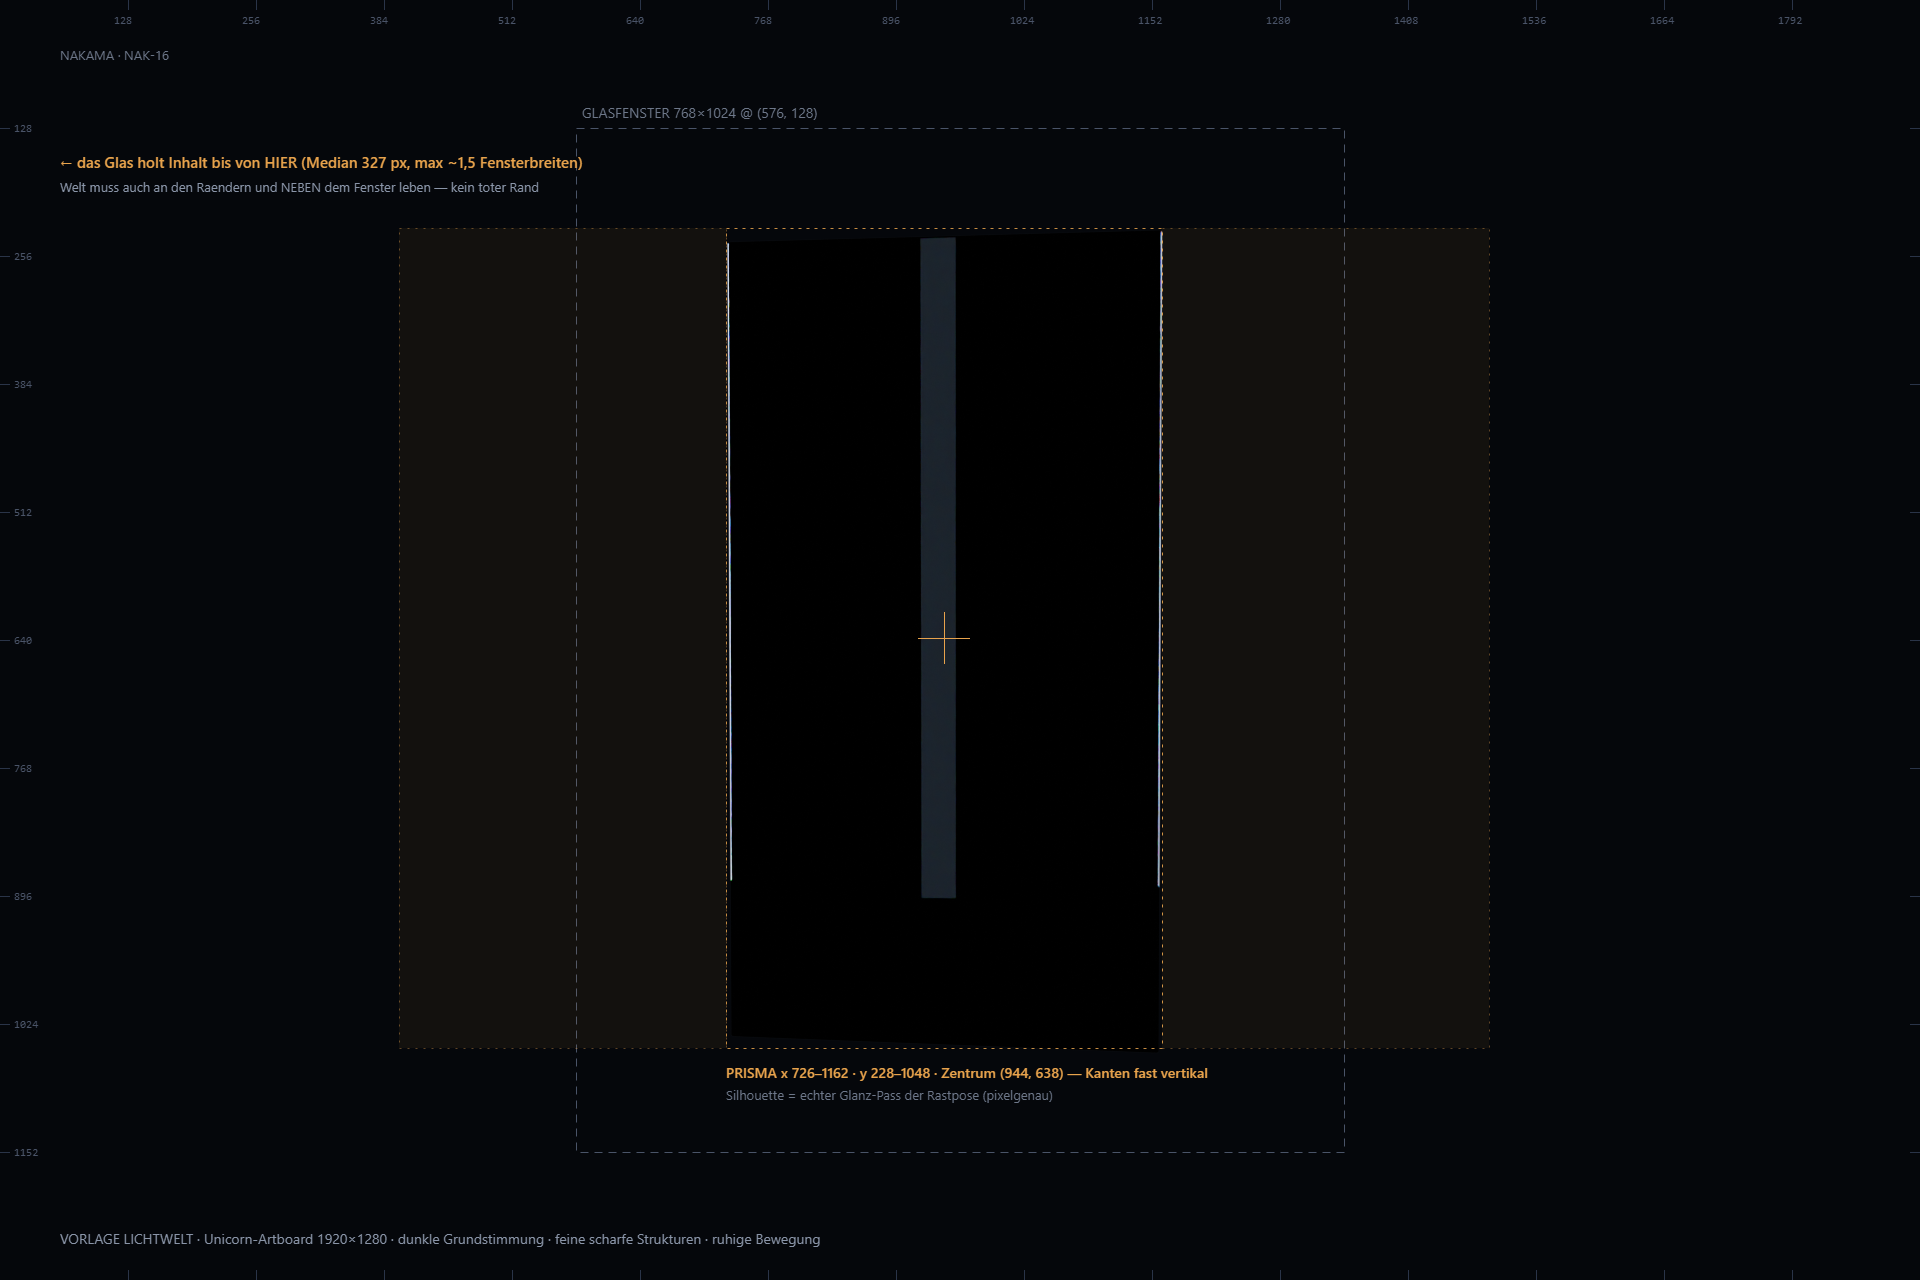
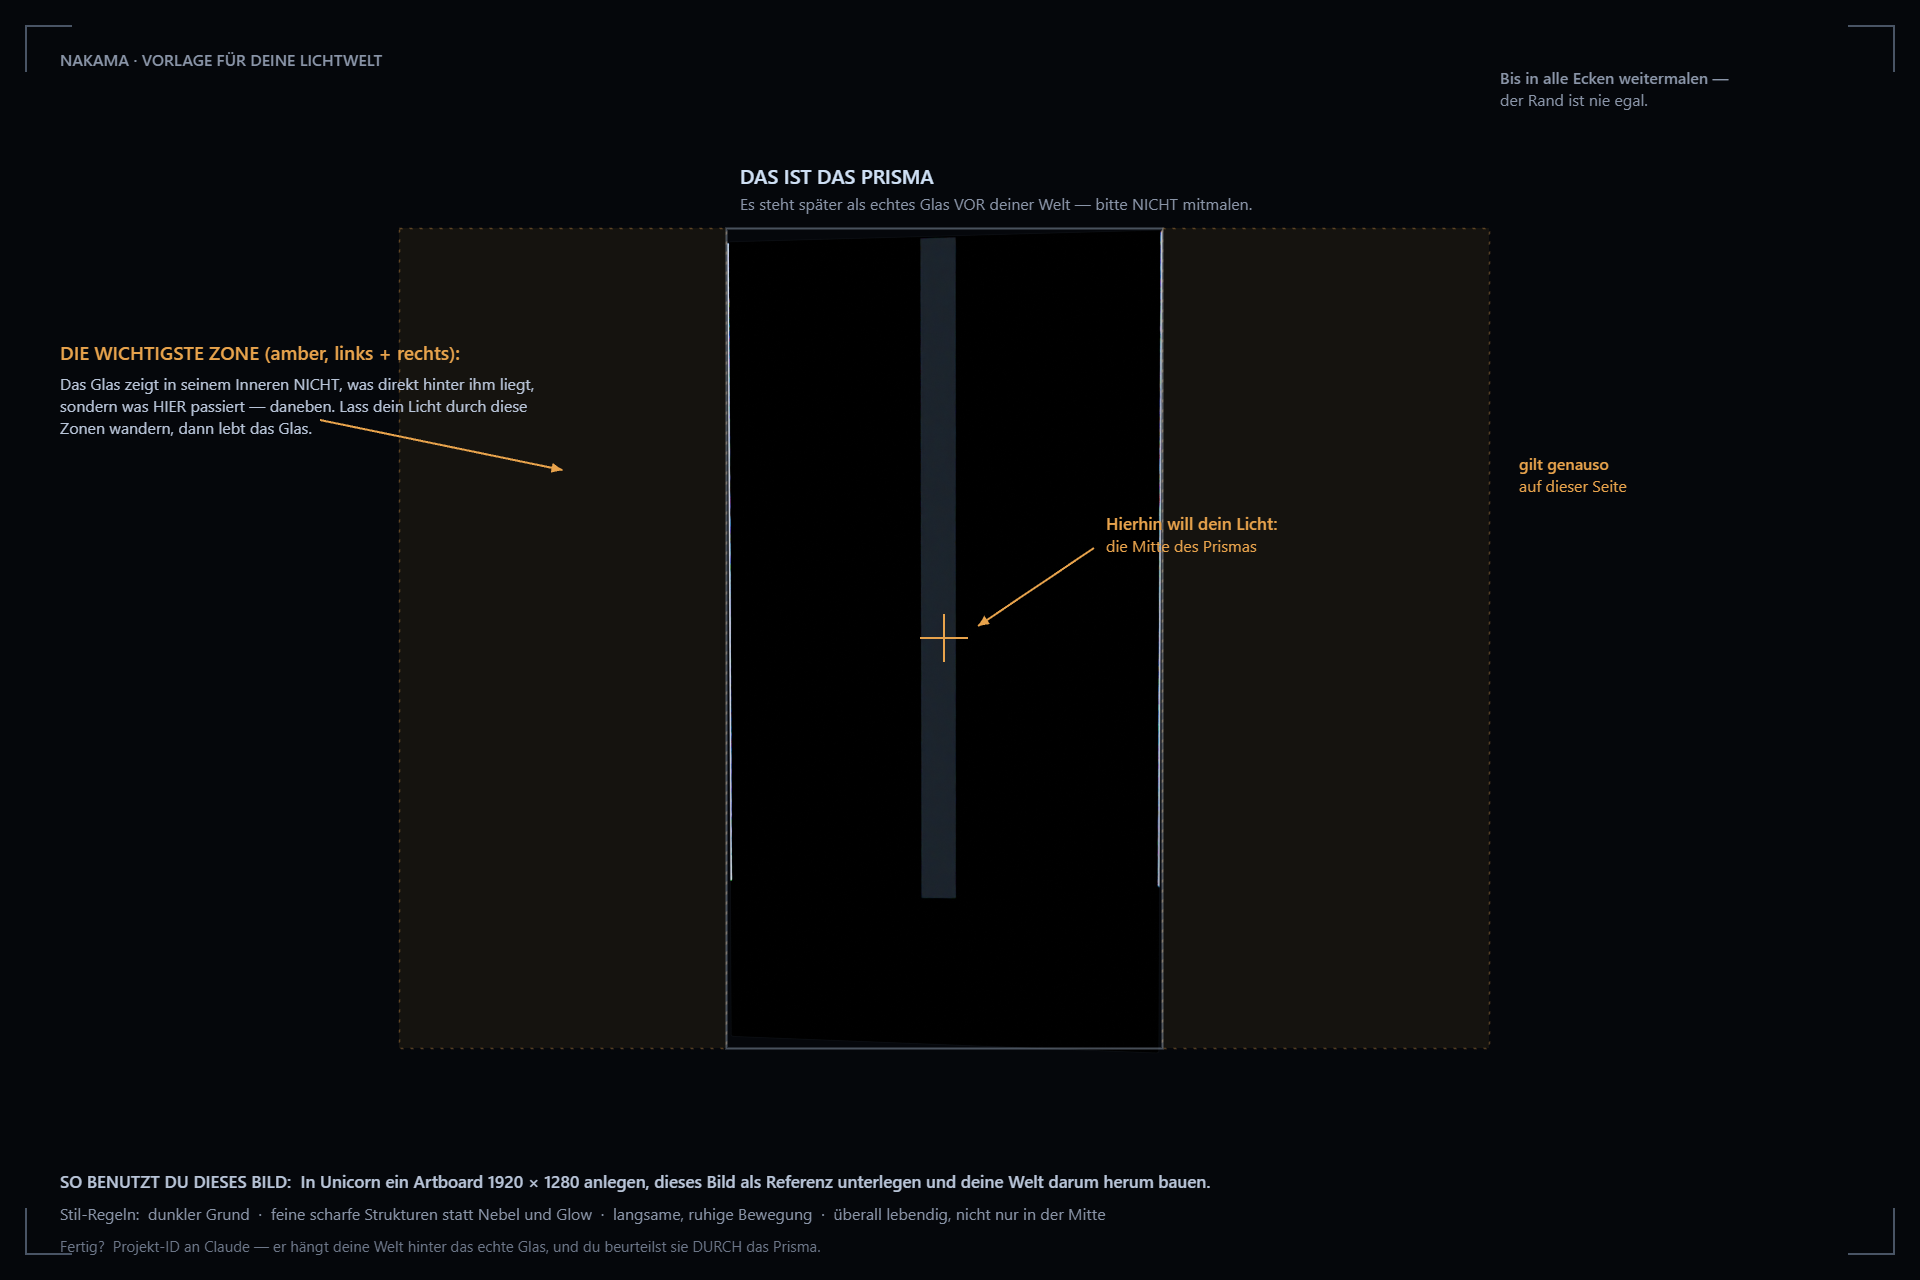
Vorlage Lichtwelt fuer Nicht-Techniker umgebaut: Klartext statt Koordinaten
Pixel-Lineal, Glasfenster-Rahmen und Zahlen-Labels raus; stattdessen
fuenf Botschaften: Prisma nicht mitmalen · Ziel des Lichts = Mitte ·
amber Greif-Zonen erklaert (Glas zeigt was DANEBEN passiert) · Ecken
leben · Fusszeile mit Anleitung + Stilregeln. Technik-Zahlen bleiben
in probe-stmap-meta.json und spielregeln-skizze.html.

Claude-Session: https://claude.ai/code/session_01SKimRmrHFJAxWBLXy71Zs1

diff --git a/eq-copilot/design/prisma/vorlage-lichtwelt.html b/eq-copilot/design/prisma/vorlage-lichtwelt.html
@@ -4,12 +4,13 @@
 <meta charset="utf-8">
 <title>NAKAMA · Vorlage Lichtwelt</title>
 <!--
-  VORLAGE fuer die Lichtwelt-Gestaltung in Unicorn (NAK-16-Folge):
-  die echte Prisma-Silhouette (Glanz-Pass der Rastpose, pixelgenau an
-  ihrer Blatt-Position) mit Mass-Guides — Glasfenster, Zentrum,
-  Greifzone des Glases. Screenshot dieses Blatts = Referenzbild fuers
-  Unicorn-Artboard (1920x1280).
-  Zahlen: renders/stmap/probe-stmap-meta.json + messung.json.
+  VORLAGE fuer die Lichtwelt-Gestaltung in Unicorn (NAK-16-Folge) —
+  bewusst fuer NICHT-Techniker beschriftet: Klartext-Zonen statt
+  Koordinaten. Die Prisma-Silhouette ist der echte Glanz-Pass der
+  Rastpose, pixelgenau an ihrer Blatt-Position (1920x1280-Buehne,
+  Glasfenster 768x1024 zentriert — die Technik-Zahlen stehen in
+  renders/stmap/probe-stmap-meta.json und docs/spielregeln-skizze.html).
+  Screenshot dieses Blatts = Referenzbild fuers Unicorn-Artboard.
 -->
 <style>
   * { margin: 0; padding: 0; }
@@ -24,93 +25,119 @@
 "use strict";
 const c = document.getElementById("blatt").getContext("2d");
 const BW = 1920, BH = 1280;
-const GX = 576, GY = 128, GW = 768, GH = 1024;      // Glasfenster zentriert
-// Prisma-Silhouette in Glas-Koordinaten (gemessen am Glanz-Pass):
-const PX0 = GX + 150, PX1 = GX + 586;               // 726 .. 1162
-const PY0 = GY + 100, PY1 = GY + 920;               // 228 .. 1048
-const PCX = (PX0 + PX1) / 2, PCY = (PY0 + PY1) / 2; // ~944, ~638
+const GX = 576, GY = 128, GW = 768, GH = 1024;      // Glasfenster (intern)
+// Prisma-Silhouette in Blatt-Koordinaten (gemessen am Glanz-Pass):
+const PX0 = GX + 150, PX1 = GX + 586;
+const PY0 = GY + 100, PY1 = GY + 920;
+const PCX = (PX0 + PX1) / 2, PCY = (PY0 + PY1) / 2;
+const GRIFF = 327;                                   // Median-Greifweite
 
 c.fillStyle = "#05070b";
 c.fillRect(0, 0, BW, BH);
 
 const glanz = new Image();
 glanz.onload = () => {
-  // Geisterkoerper: Silhouette als zarte Flaeche sichtbar machen
+  // Geisterkoerper: Silhouette deutlich sichtbar machen
   const tmp = document.createElement("canvas");
   tmp.width = GW; tmp.height = GH;
   const t = tmp.getContext("2d");
   t.drawImage(glanz, 0, 0);
   t.globalCompositeOperation = "source-in";
-  t.fillStyle = "rgba(150, 180, 220, 0.10)";
+  t.fillStyle = "rgba(150, 180, 220, 0.20)";
   t.fillRect(0, 0, GW, GH);
   c.drawImage(tmp, GX, GY);
-  // echter Glanz-Pass obendrauf (Kanten, Front-Streifen)
   c.drawImage(glanz, GX, GY);
-  zeichneGuides();
+  zeichne();
 };
 glanz.src = STMAP_DATEN.glanzDataUrl;
 
-function beschrifte(text, x, y, farbe = "#8a95a8", groesse = 15, fett = false) {
+function text(t, x, y, farbe = "#b8c4d8", groesse = 17, fett = false) {
   c.fillStyle = farbe;
   c.font = (fett ? "600 " : "") + groesse + 'px "Segoe UI", system-ui, sans-serif';
-  c.fillText(text, x, y);
+  c.fillText(t, x, y);
 }
 
-function zeichneGuides() {
-  // Pixel-Lineal am Rand (alle 128 px)
-  c.strokeStyle = "#2a3448";
-  c.fillStyle = "#4a5468";
-  c.font = '11px Consolas, monospace';
+function pfeil(x1, y1, x2, y2, farbe) {
+  c.strokeStyle = farbe;
+  c.fillStyle = farbe;
+  c.lineWidth = 2;
   c.beginPath();
-  for (let x = 128; x < BW; x += 128) {
-    c.moveTo(x + 0.5, 0); c.lineTo(x + 0.5, 10);
-    c.moveTo(x + 0.5, BH); c.lineTo(x + 0.5, BH - 10);
-    c.fillText(String(x), x - 14, 24);
-  }
-  for (let y = 128; y < BH; y += 128) {
-    c.moveTo(0, y + 0.5); c.lineTo(10, y + 0.5);
-    c.moveTo(BW, y + 0.5); c.lineTo(BW - 10, y + 0.5);
-    c.fillText(String(y), 14, y + 4);
-  }
+  c.moveTo(x1, y1);
+  c.lineTo(x2, y2);
   c.stroke();
+  const w = Math.atan2(y2 - y1, x2 - x1);
+  c.beginPath();
+  c.moveTo(x2, y2);
+  c.lineTo(x2 - 12 * Math.cos(w - 0.42), y2 - 12 * Math.sin(w - 0.42));
+  c.lineTo(x2 - 12 * Math.cos(w + 0.42), y2 - 12 * Math.sin(w + 0.42));
+  c.closePath();
+  c.fill();
+}
 
-  // Glasfenster
-  c.strokeStyle = "#4a5468";
-  c.setLineDash([8, 6]);
-  c.strokeRect(GX + 0.5, GY + 0.5, GW, GH);
+function zeichne() {
+  // ── Greif-Zonen links + rechts des Prismas (amber schimmernd)
+  c.fillStyle = "rgba(232, 163, 76, 0.07)";
+  c.fillRect(PX0 - GRIFF, PY0, GRIFF, PY1 - PY0);
+  c.fillRect(PX1, PY0, GRIFF, PY1 - PY0);
+  c.strokeStyle = "rgba(232, 163, 76, 0.35)";
+  c.setLineDash([3, 7]);
+  c.lineWidth = 1.5;
+  c.strokeRect(PX0 - GRIFF + 0.5, PY0 + 0.5, GRIFF, PY1 - PY0);
+  c.strokeRect(PX1 + 0.5, PY0 + 0.5, GRIFF, PY1 - PY0);
   c.setLineDash([]);
-  beschrifte("GLASFENSTER 768×1024 @ (576, 128)", GX + 6, GY - 10, "#6d7789", 14);
 
-  // Prisma-Kasten + Zentrum
-  c.strokeStyle = "rgba(232, 163, 76, 0.85)";
-  c.setLineDash([3, 5]);
+  // ── Prisma-Umriss (dezent, damit man ihn sicher findet)
+  c.strokeStyle = "rgba(200, 220, 245, 0.35)";
+  c.lineWidth = 2;
   c.strokeRect(PX0 + 0.5, PY0 + 0.5, PX1 - PX0, PY1 - PY0);
-  c.setLineDash([]);
-  c.beginPath();
-  c.moveTo(PCX - 26, PCY + 0.5); c.lineTo(PCX + 26, PCY + 0.5);
-  c.moveTo(PCX + 0.5, PCY - 26); c.lineTo(PCX + 0.5, PCY + 26);
+
+  // ── Ziel-Kreuz in der Prisma-Mitte
   c.strokeStyle = "#e8a34c";
+  c.lineWidth = 2;
+  c.beginPath();
+  c.moveTo(PCX - 24, PCY); c.lineTo(PCX + 24, PCY);
+  c.moveTo(PCX, PCY - 24); c.lineTo(PCX, PCY + 24);
   c.stroke();
-  beschrifte("PRISMA x 726–1162 · y 228–1048 · Zentrum (944, 638) — Kanten fast vertikal", PX0, PY1 + 30, "#e8a34c", 14, true);
-  beschrifte("Silhouette = echter Glanz-Pass der Rastpose (pixelgenau)", PX0, PY1 + 52, "#6d7789", 13);
 
-  // Greifzone: von dort holt das Glas seinen Inhalt
-  const zonen = [
-    [PX0 - 327, PX0, "Median-Griff 327 px"],
-    [PX1, PX1 + 327, "Median-Griff 327 px"],
-  ];
-  c.fillStyle = "rgba(232, 163, 76, 0.06)";
-  for (const [a, b] of zonen) c.fillRect(a, PY0, b - a, PY1 - PY0);
-  c.strokeStyle = "rgba(232, 163, 76, 0.4)";
-  c.setLineDash([2, 6]);
-  for (const [a, b] of zonen) { c.strokeRect(a + 0.5, PY0 + 0.5, b - a, PY1 - PY0); }
-  c.setLineDash([]);
-  beschrifte("← das Glas holt Inhalt bis von HIER (Median 327 px, max ~1,5 Fensterbreiten)", 60, PCY - 470, "#e8a34c", 15, true);
-  beschrifte("Welt muss auch an den Raendern und NEBEN dem Fenster leben — kein toter Rand", 60, PCY - 446, "#8a95a8", 13);
+  // ── Ecken-Marken: die Welt lebt bis in alle Ecken
+  c.strokeStyle = "rgba(140, 160, 190, 0.5)";
+  c.lineWidth = 2;
+  const E = 46, R = 26;
+  for (const [ex, ey, sx, sy] of [[R, R, 1, 1], [BW - R, R, -1, 1], [R, BH - R, 1, -1], [BW - R, BH - R, -1, -1]]) {
+    c.beginPath();
+    c.moveTo(ex + sx * E, ey); c.lineTo(ex, ey); c.lineTo(ex, ey + sy * E);
+    c.stroke();
+  }
 
-  // Kopfzeile
-  beschrifte("VORLAGE LICHTWELT · Unicorn-Artboard 1920×1280 · dunkle Grundstimmung · feine scharfe Strukturen · ruhige Bewegung", 60, BH - 36, "#8a95a8", 14);
-  beschrifte("NAKAMA · NAK-16", 60, 60, "#6d7789", 13);
+  // ── Beschriftungen (Klartext)
+  text("NAKAMA · VORLAGE FÜR DEINE LICHTWELT", 60, 66, "#8a95a8", 16, true);
+
+  // Das Prisma
+  text("DAS IST DAS PRISMA", PX0 + 14, PY0 - 44, "#cfe0f5", 20, true);
+  text("Es steht später als echtes Glas VOR deiner Welt — bitte NICHT mitmalen.", PX0 + 14, PY0 - 18, "#8a95a8", 16);
+
+  // Ziel-Kreuz
+  pfeil(PCX + 150, PCY - 90, PCX + 34, PCY - 12, "#e8a34c");
+  text("Hierhin will dein Licht:", PCX + 162, PCY - 108, "#e8a34c", 17, true);
+  text("die Mitte des Prismas", PCX + 162, PCY - 86, "#e8a34c", 16);
+
+  // Greif-Zonen erklaeren (links ausfuehrlich, rechts kurz)
+  pfeil(320, 420, PX0 - GRIFF / 2, 470, "#e8a34c");
+  text("DIE WICHTIGSTE ZONE (amber, links + rechts):", 60, 360, "#e8a34c", 19, true);
+  text("Das Glas zeigt in seinem Inneren NICHT, was direkt hinter ihm liegt,", 60, 390, "#b8c4d8", 16);
+  text("sondern was HIER passiert — daneben. Lass dein Licht durch diese", 60, 412, "#b8c4d8", 16);
+  text("Zonen wandern, dann lebt das Glas.", 60, 434, "#b8c4d8", 16);
+  text("gilt genauso", PX1 + GRIFF + 30, 470, "#e8a34c", 16, true);
+  text("auf dieser Seite", PX1 + GRIFF + 30, 492, "#e8a34c", 16);
+
+  // Ecken
+  text("Bis in alle Ecken weitermalen —", BW - 420, 84, "#8a95a8", 16, true);
+  text("der Rand ist nie egal.", BW - 420, 106, "#8a95a8", 16);
+
+  // Fusszeile: Anleitung + Stilregeln
+  text("SO BENUTZT DU DIESES BILD:  In Unicorn ein Artboard 1920 × 1280 anlegen, dieses Bild als Referenz unterlegen und deine Welt darum herum bauen.", 60, BH - 92, "#b8c4d8", 17, true);
+  text("Stil-Regeln:  dunkler Grund  ·  feine scharfe Strukturen statt Nebel und Glow  ·  langsame, ruhige Bewegung  ·  überall lebendig, nicht nur in der Mitte", 60, BH - 60, "#8a95a8", 16);
+  text("Fertig?  Projekt-ID an Claude — er hängt deine Welt hinter das echte Glas, und du beurteilst sie DURCH das Prisma.", 60, BH - 28, "#6d7789", 15);
 }
 </script>
 </body>
